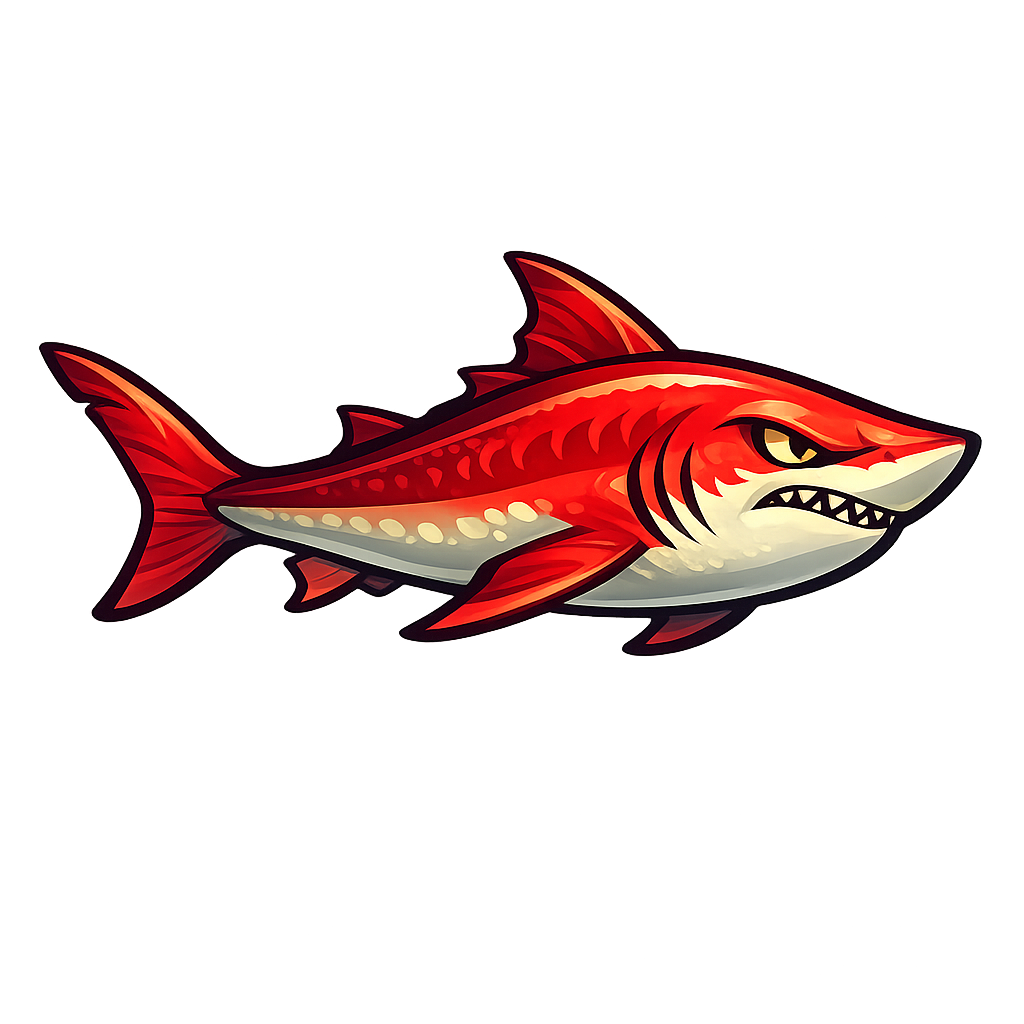
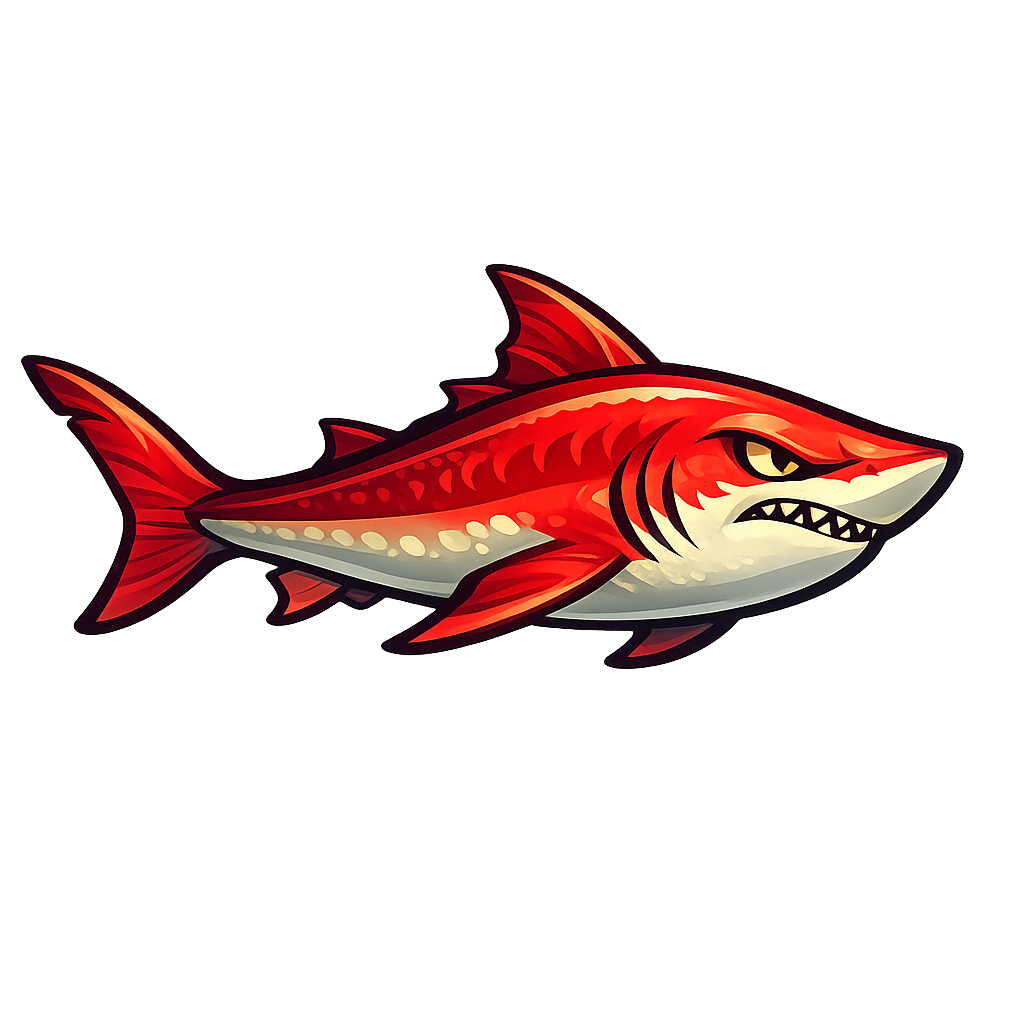
Rework sprite sizing and collision system for accurate fish proportions
- Resize all sprites to 1024x1024 canvases with progressive baked-in fish
  sizes (s1=25%, s2=34%, s3=49%, s4=66%, s5=63%/apex=92%)
- Remove all b-frame swim animation sprites and toggle logic
- Simplify GameScene to use constant 200x200 display size for all entities
- Derive collision radii from actual sprite dimensions (~85% coverage)
- Replace old tail-hit detection with clean front 70%/back 30% apex zones
- Update debug geometry (G key) to visualize new collision zones
- Remove unused tailWindowBias from combat state

Changed region(s): [[0.0, 0.2188, 0.9688, 0.6562]]

diff --git a/src/game/phaser/GameScene.ts b/src/game/phaser/GameScene.ts
@@ -19,8 +19,8 @@ export type SceneBridge = {
 };
 
 export class GameScene extends Phaser.Scene {
-  private static readonly USE_APEX_HIT_SPRITE = true;
-  private static readonly USE_HAZARD_FRAME_B = true;
+  /** All fish/hazard sprites are displayed at this square size; visual size comes from baked-in art. */
+  private static readonly SPRITE_DISPLAY_SIZE = 200;
   private static readonly USE_BG_MID_IMAGE = true;
   private static readonly USE_BG_FORE_IMAGE = false;
   private static readonly USE_CAUSTICS_IMAGE = true;
@@ -57,20 +57,15 @@ export class GameScene extends Phaser.Scene {
 
   preload() {
     const { sprites } = this.theme;
-    // Future size-class/player evolution assets (safe to predeclare; missing files just won't be selected).
     for (const size of [1, 2, 3, 4, 5]) {
-      this.load.image(`player-s${size}-a`, `/assets/reef/player_s${size}_a.png`);
-      this.load.image(`player-s${size}-b`, `/assets/reef/player_s${size}_b.png`);
+      this.load.image(`player-s${size}`, `/assets/reef/player_s${size}_a.png`);
     }
     for (const size of [1, 2, 3, 4]) {
-      this.load.image(`npc-s${size}-v1-a`, `/assets/reef/npc_s${size}_v1_a.png`);
-      this.load.image(`npc-s${size}-v1-b`, `/assets/reef/npc_s${size}_v1_b.png`);
+      this.load.image(`npc-s${size}`, `/assets/reef/npc_s${size}_v1_a.png`);
     }
-    this.load.image('apex-s5-v1-a', '/assets/reef/apex_s5_v1_a.png');
-    this.load.image('apex-s5-v1-b', '/assets/reef/apex_s5_v1_b.png');
-    this.load.image('apex-s5-v1-hit', '/assets/reef/apex_s5_v1_hit.png');
-    this.load.image('hazard-v1-a', '/assets/reef/hazard_v1_a.png');
-    this.load.image('hazard-v1-b', '/assets/reef/hazard_v1_b.png');
+    this.load.image('apex-s5', '/assets/reef/apex_s5_v1_a.png');
+    this.load.image('apex-s5-hit', '/assets/reef/apex_s5_v1_hit.png');
+    this.load.image('hazard', '/assets/reef/hazard_v1_a.png');
     this.load.image('reef-bg-far', '/assets/reef/bg_far.png');
     this.load.image('reef-bg-mid', '/assets/reef/bg_mid.png');
     this.load.image('reef-bg-fore', '/assets/reef/bg_fore.png');
@@ -78,13 +73,10 @@ export class GameScene extends Phaser.Scene {
     this.load.image('reef-bg-fore-right', '/assets/reef/bg_fore_right.png');
     this.load.image('reef-caustics', '/assets/reef/caustics.png');
 
-    // Current hand-generated first batch / fallback assets
-    this.load.image('reef-player-a', '/assets/reef/player_swim_a.png');
-    this.load.image('reef-player-b', '/assets/reef/player_swim_b.png');
-    this.load.image('reef-prey-a', '/assets/reef/prey_01_a.png');
-    this.load.image('reef-prey-b', '/assets/reef/prey_01_b.png');
-    this.load.image('reef-apex-a', '/assets/reef/apex_01_a.png');
-    this.load.image('reef-apex-b', '/assets/reef/apex_01_b.png');
+    // Fallback assets
+    this.load.image('reef-player', '/assets/reef/player_swim_a.png');
+    this.load.image('reef-prey', '/assets/reef/prey_01_a.png');
+    this.load.image('reef-apex', '/assets/reef/apex_01_a.png');
     this.load.image('reef-apex-hit', '/assets/reef/apex_01_hit.png');
     this.load.svg('reef-predator', sprites.predator);
     this.load.svg('reef-hazard', sprites.hazard);
@@ -138,7 +130,7 @@ export class GameScene extends Phaser.Scene {
         // Multiply blend suppresses the matte while preserving darker coral/rock shapes.
         .setBlendMode(Phaser.BlendModes.MULTIPLY);
     }
-    this.playerSprite = this.add.image(0, 0, 'reef-player-a').setDepth(5);
+    this.playerSprite = this.add.image(0, 0, 'reef-player').setDepth(5);
     this.playerSprite.setOrigin(0.5);
     this.bubbles = Array.from({ length: 26 }, (_, i) => ({
       x: Phaser.Math.Between(0, 960),
@@ -314,17 +306,24 @@ export class GameScene extends Phaser.Scene {
 
       if (e.kind === 'apex' && e.combat) {
         const facingX = e.vel.x === 0 ? 1 : Math.sign(e.vel.x);
-        const tailBandWidth = e.radius * (0.8 + e.combat.tailWindowBias) * d.apexTailHitLeniency;
-        const tailThreshold = tailBandWidth * 0.24;
-        // Shark zones: red body = danger contact, yellow tail = player damage zone.
+        // Front/back zone split matching engine collision logic:
+        // splitX = -0.4 * ext.rx in apex-relative space → back 30% is tail zone
+        const splitWorldX = e.pos.x - facingX * 0.4 * ext.rx;
+        // Tail zone (back 30%) — yellow/green: player damages apex here
+        const tailEdgeX = e.pos.x - facingX * ext.rx;
+        const tailLeft = Math.min(splitWorldX, tailEdgeX);
+        const tailRight = Math.max(splitWorldX, tailEdgeX);
+        g.fillStyle(0x8bffd3, 0.18);
+        g.fillRect(tailLeft, e.pos.y - ext.ry, tailRight - tailLeft, ext.ry * 2);
+        // Front zone (front 70%) — red tint: apex damages player here
+        const frontEdgeX = e.pos.x + facingX * ext.rx;
+        const frontLeft = Math.min(splitWorldX, frontEdgeX);
+        const frontRight = Math.max(splitWorldX, frontEdgeX);
+        g.fillStyle(0xff6b6b, 0.14);
+        g.fillRect(frontLeft, e.pos.y - ext.ry, frontRight - frontLeft, ext.ry * 2);
+        // Split line
         g.lineStyle(2, 0xffe58f, 0.95);
-        g.lineBetween(e.pos.x, e.pos.y - 40, e.pos.x, e.pos.y + 40);
-        g.lineStyle(2, 0xffd38b, 0.9);
-        g.lineBetween(e.pos.x - facingX * tailThreshold, e.pos.y - 34, e.pos.x - facingX * tailThreshold, e.pos.y + 34);
-        const tailX = facingX > 0 ? e.pos.x - ext.rx : e.pos.x + tailThreshold;
-        const tailW = Math.max(1, ext.rx - tailThreshold);
-        g.fillStyle(0xffd38b, 0.22);
-        g.fillRect(tailX, e.pos.y - ext.ry, tailW, ext.ry * 2);
+        g.lineBetween(splitWorldX, e.pos.y - ext.ry, splitWorldX, e.pos.y + ext.ry);
       }
     }
   }
@@ -367,42 +366,23 @@ export class GameScene extends Phaser.Scene {
   }
 
   private spriteKeyForEntity(entity: Entity) {
-    const swimFrameB = Math.floor(this.state.elapsedMs / 180) % 2 === 1;
     if (entity.kind === 'prey' || entity.kind === 'predator') {
       const size = entity.sizeClass ?? (entity.kind === 'prey' ? 1 : 3);
-      const frame = swimFrameB ? 'b' : 'a';
-      const preferred = `npc-s${size}-v1-${frame}`;
-      if (this.textures.exists(preferred)) return preferred;
-      if (size <= 2) return swimFrameB ? 'reef-prey-b' : 'reef-prey-a';
-      return 'reef-predator';
+      const key = `npc-s${size}`;
+      if (this.textures.exists(key)) return key;
+      return size <= 2 ? 'reef-prey' : 'reef-predator';
     }
     if (entity.kind === 'apex') {
       const flashing = !!(entity.combat && this.state.run.timeSeconds < entity.combat.flashUntil);
-      if (flashing && GameScene.USE_APEX_HIT_SPRITE && this.textures.exists('apex-s5-v1-hit')) return 'apex-s5-v1-hit';
-      const preferred = swimFrameB ? 'apex-s5-v1-b' : 'apex-s5-v1-a';
-      if (this.textures.exists(preferred)) return preferred;
-      if (flashing && GameScene.USE_APEX_HIT_SPRITE) return 'reef-apex-hit';
-      return swimFrameB ? 'reef-apex-b' : 'reef-apex-a';
+      if (flashing) {
+        if (this.textures.exists('apex-s5-hit')) return 'apex-s5-hit';
+        return 'reef-apex-hit';
+      }
+      if (this.textures.exists('apex-s5')) return 'apex-s5';
+      return 'reef-apex';
     }
-    if (GameScene.USE_HAZARD_FRAME_B) {
-      const hazardFrame = swimFrameB ? 'hazard-v1-b' : 'hazard-v1-a';
-      if (this.textures.exists(hazardFrame)) return hazardFrame;
-    } else if (this.textures.exists('hazard-v1-a')) {
-      return 'hazard-v1-a';
-    }
+    if (this.textures.exists('hazard')) return 'hazard';
     return 'reef-hazard';
-  }
-
-  private targetDisplayWidthForEntity(entity: Entity) {
-    if (entity.kind === 'prey' || entity.kind === 'predator') {
-      const size = entity.sizeClass ?? (entity.kind === 'prey' ? 1 : 3);
-      if (size === 1) return entity.radius * 5.6;
-      if (size === 2) return entity.radius * 5.7;
-      if (size === 3) return entity.radius * 5.8;
-      return entity.radius * 6.0;
-    }
-    if (entity.kind === 'apex') return entity.radius * 6.2;
-    return entity.radius * 3.4;
   }
 
   private syncEntitySprites() {
@@ -418,9 +398,9 @@ export class GameScene extends Phaser.Scene {
       } else if (sprite.texture.key !== textureKey) {
         sprite.setTexture(textureKey);
       }
-      const targetW = this.targetDisplayWidthForEntity(entity);
+      const ds = GameScene.SPRITE_DISPLAY_SIZE;
       sprite.setPosition(entity.pos.x, entity.pos.y);
-      sprite.setDisplaySize(targetW, targetW);
+      sprite.setDisplaySize(ds, ds);
       if (entity.kind !== 'hazard') {
         const facingLeft = entity.vel.x < 0;
         const facingSign = facingLeft ? -1 : 1;
@@ -449,16 +429,13 @@ export class GameScene extends Phaser.Scene {
   }
 
   private syncPlayerSprite(alpha: number) {
-    const frameB = Math.floor(this.state.elapsedMs / 170) % 2 === 1;
-    const playerVisualSize = Math.min(5, Math.max(1, this.state.player.sizeTier));
-    const preferred = `player-s${playerVisualSize}-${frameB ? 'b' : 'a'}`;
-    const textureKey = this.textures.exists(preferred) ? preferred : (frameB ? 'reef-player-b' : 'reef-player-a');
+    const tier = Math.min(5, Math.max(1, this.state.player.sizeTier));
+    const preferred = `player-s${tier}`;
+    const textureKey = this.textures.exists(preferred) ? preferred : 'reef-player';
     if (this.playerSprite.texture.key !== textureKey) this.playerSprite.setTexture(textureKey);
-    const size = Math.min(5, Math.max(1, this.state.player.sizeTier));
-    const sizeMult = size === 1 ? 5.6 : size === 2 ? 5.7 : size === 3 ? 5.8 : size === 4 ? 6.0 : 6.2;
-    const targetW = this.state.player.radius * sizeMult;
+    const ds = GameScene.SPRITE_DISPLAY_SIZE;
     this.playerSprite.setPosition(this.state.player.pos.x, this.state.player.pos.y);
-    this.playerSprite.setDisplaySize(targetW, targetW);
+    this.playerSprite.setDisplaySize(ds, ds);
     const facingLeft = this.state.player.vel.x < 0;
     const facingSign = facingLeft ? -1 : 1;
     this.playerSprite.setFlipX(facingLeft);

diff --git a/src/game/core/engine.ts b/src/game/core/engine.ts
@@ -10,12 +10,13 @@ const APEX_HIT_COOLDOWN_SECONDS = 0.45;
 const NPC_SIZE_CLASSES: FishSizeClass[] = [1, 2, 3, 4];
 
 const playerRadiusForSizeTier = (sizeTier: number) => {
+  // Derived from baked-in sprite sizes: visual half-width in arena px at ~85% coverage.
   switch (Math.max(1, Math.min(MAX_SIZE_TIER, Math.round(sizeTier)))) {
-    case 1: return 9;
-    case 2: return 12;
-    case 3: return 17;
-    case 4: return 22;
-    case 5: return 31;
+    case 1: return 19;
+    case 2: return 26;
+    case 3: return 37;
+    case 4: return 50;
+    case 5: return 47;
     default: return BASE_PLAYER_RADIUS;
   }
 };
@@ -53,12 +54,13 @@ const chaseSpeed = (kind: EntityKind, aggression = 1): number => {
 };
 
 const npcRadiusForSizeClass = (sizeClass: FishSizeClass) => {
+  // Derived from baked-in sprite sizes: visual half-width in arena px at ~85% coverage.
   switch (sizeClass) {
-    case 1: return rnd(7, 10);
-    case 2: return rnd(10, 14);
-    case 3: return rnd(14, 19);
-    case 4: return rnd(19, 25);
-    case 5: return rnd(26, 36);
+    case 1: return 19;
+    case 2: return 26;
+    case 3: return 37;
+    case 4: return 50;
+    case 5: return 68;
   }
 };
 
@@ -277,7 +279,6 @@ const spawnAtEdge = (state: GameState, kind: EntityKind): Entity => {
     entity.combat = {
       maxHealth,
       health: maxHealth,
-      tailWindowBias: rnd(0.52, 0.68),
       flashUntil: -1,
       lastHitAt: -999,
     };
@@ -356,48 +357,69 @@ const handlePlayerCollision = (state: GameState, entity: Entity): { consumed: bo
   }
 
   const invulnerable = state.run.timeSeconds < state.player.invulnerableUntil;
-  if (entity.kind === 'apex' && entity.combat) {
-    const dx = state.player.pos.x - entity.pos.x;
-    const apexFacingX = entity.vel.x === 0 ? 1 : Math.sign(entity.vel.x);
-    const behindApex = dx * apexFacingX < 0;
-    const tailBandWidth = entity.radius * (0.8 + entity.combat.tailWindowBias) * d.apexTailHitLeniency;
-    const nearTail = Math.abs(dx) >= tailBandWidth * 0.24;
-    const tailHitOpen = behindApex && nearTail;
-    const hitCooldownReady = state.run.timeSeconds - entity.combat.lastHitAt >= APEX_HIT_COOLDOWN_SECONDS;
 
-    if (tailHitOpen && hitCooldownReady) {
-      entity.combat.lastHitAt = state.run.timeSeconds;
-      entity.combat.flashUntil = state.run.timeSeconds + 0.18;
-      const damage = apexTailDamageForPlayer(state.player.sizeTier);
-      entity.combat.health -= damage;
-      const points = pointsForApexTailHit(d.scoreMultiplier);
-      state.run.score += points;
-      state.apexThreat.lastHitAt = state.run.timeSeconds;
-      const intensity = clamp(1 - entity.combat.health / entity.combat.maxHealth, 0, 1);
-      state.apexThreat.intensity = Math.max(state.apexThreat.intensity, intensity);
-      events.push({
-        type: 'apex-hit',
-        entityId: entity.id,
-        damage,
-        health: Math.max(entity.combat.health, 0),
-        maxHealth: entity.combat.maxHealth,
-        points,
-        pos: { ...entity.pos },
-      });
-      events.push({ type: 'score', amount: points });
-      events.push({ type: 'apex-intensity', value: state.apexThreat.intensity });
-      if (entity.combat.health <= 0) {
-        state.apexThreat.lastKillAt = state.run.timeSeconds;
-        state.apexThreat.intensity = 0;
-        const killBonus = points * 2;
-        state.run.score += killBonus;
-        events.push({ type: 'score', amount: killBonus });
-        events.push({ type: 'apex-killed', entityId: entity.id, points: killBonus, pos: { ...entity.pos } });
-        return { consumed: true, events };
+  // Apex collision uses two zones: front 70% hurts player, back 30% is where player damages apex.
+  if (entity.kind === 'apex' && entity.combat) {
+    const apexFacingX = entity.vel.x === 0 ? 1 : Math.sign(entity.vel.x);
+    // relativeX > 0 means player is in front of apex, < 0 means behind
+    const relativeX = (state.player.pos.x - entity.pos.x) * apexFacingX;
+    const ext = fishExtents(entity.radius, d.enemyHitboxScale);
+    // Split at 40% from the back: back 30% of total width = from -rx to -0.4*rx
+    const splitX = -0.4 * ext.rx;
+    const inTailZone = relativeX < splitX;
+
+    if (inTailZone) {
+      // Back 30%: player deals damage to apex
+      const hitCooldownReady = state.run.timeSeconds - entity.combat.lastHitAt >= APEX_HIT_COOLDOWN_SECONDS;
+      if (hitCooldownReady) {
+        entity.combat.lastHitAt = state.run.timeSeconds;
+        entity.combat.flashUntil = state.run.timeSeconds + 0.18;
+        const damage = apexTailDamageForPlayer(state.player.sizeTier);
+        entity.combat.health -= damage;
+        const points = pointsForApexTailHit(d.scoreMultiplier);
+        state.run.score += points;
+        state.apexThreat.lastHitAt = state.run.timeSeconds;
+        const intensity = clamp(1 - entity.combat.health / entity.combat.maxHealth, 0, 1);
+        state.apexThreat.intensity = Math.max(state.apexThreat.intensity, intensity);
+        events.push({
+          type: 'apex-hit',
+          entityId: entity.id,
+          damage,
+          health: Math.max(entity.combat.health, 0),
+          maxHealth: entity.combat.maxHealth,
+          points,
+          pos: { ...entity.pos },
+        });
+        events.push({ type: 'score', amount: points });
+        events.push({ type: 'apex-intensity', value: state.apexThreat.intensity });
+        if (entity.combat.health <= 0) {
+          state.apexThreat.lastKillAt = state.run.timeSeconds;
+          state.apexThreat.intensity = 0;
+          const killBonus = points * 2;
+          state.run.score += killBonus;
+          events.push({ type: 'score', amount: killBonus });
+          events.push({ type: 'apex-killed', entityId: entity.id, points: killBonus, pos: { ...entity.pos } });
+          return { consumed: true, events };
+        }
       }
       return { consumed: false, events };
     }
+
+    // Front 70%: apex damages player
+    if (!invulnerable) {
+      state.player.lives -= 1;
+      events.push({ type: 'player-hit', livesRemaining: state.player.lives });
+      if (state.player.lives <= 0) {
+        state.mode = 'gameOver';
+        events.push({ type: 'game-over', finalScore: state.run.score });
+      } else {
+        resetPlayerAfterHit(state);
+      }
+    }
+    return { consumed: false, events };
   }
+
+  // Regular fish collision
   const edible = canEat(state.player.sizeTier, entity);
 
   if (edible) {

diff --git a/src/game/core/types.ts b/src/game/core/types.ts
@@ -18,7 +18,6 @@ export type Entity = {
   combat?: {
     maxHealth: number;
     health: number;
-    tailWindowBias: number;
     flashUntil: number;
     lastHitAt: number;
   };
